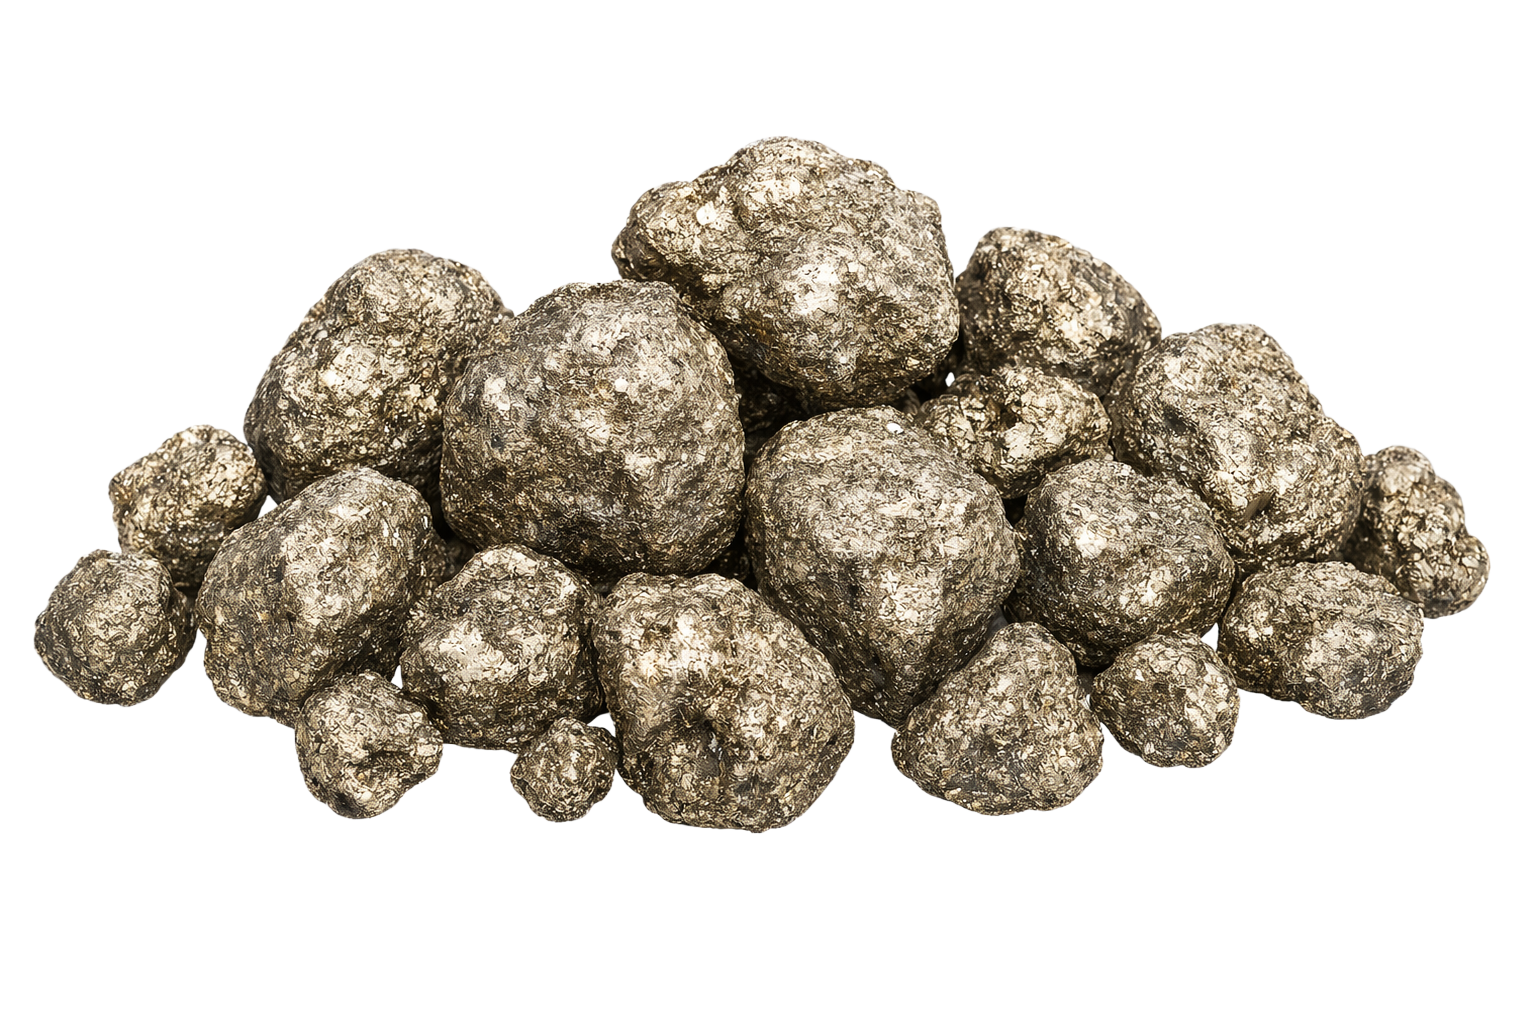
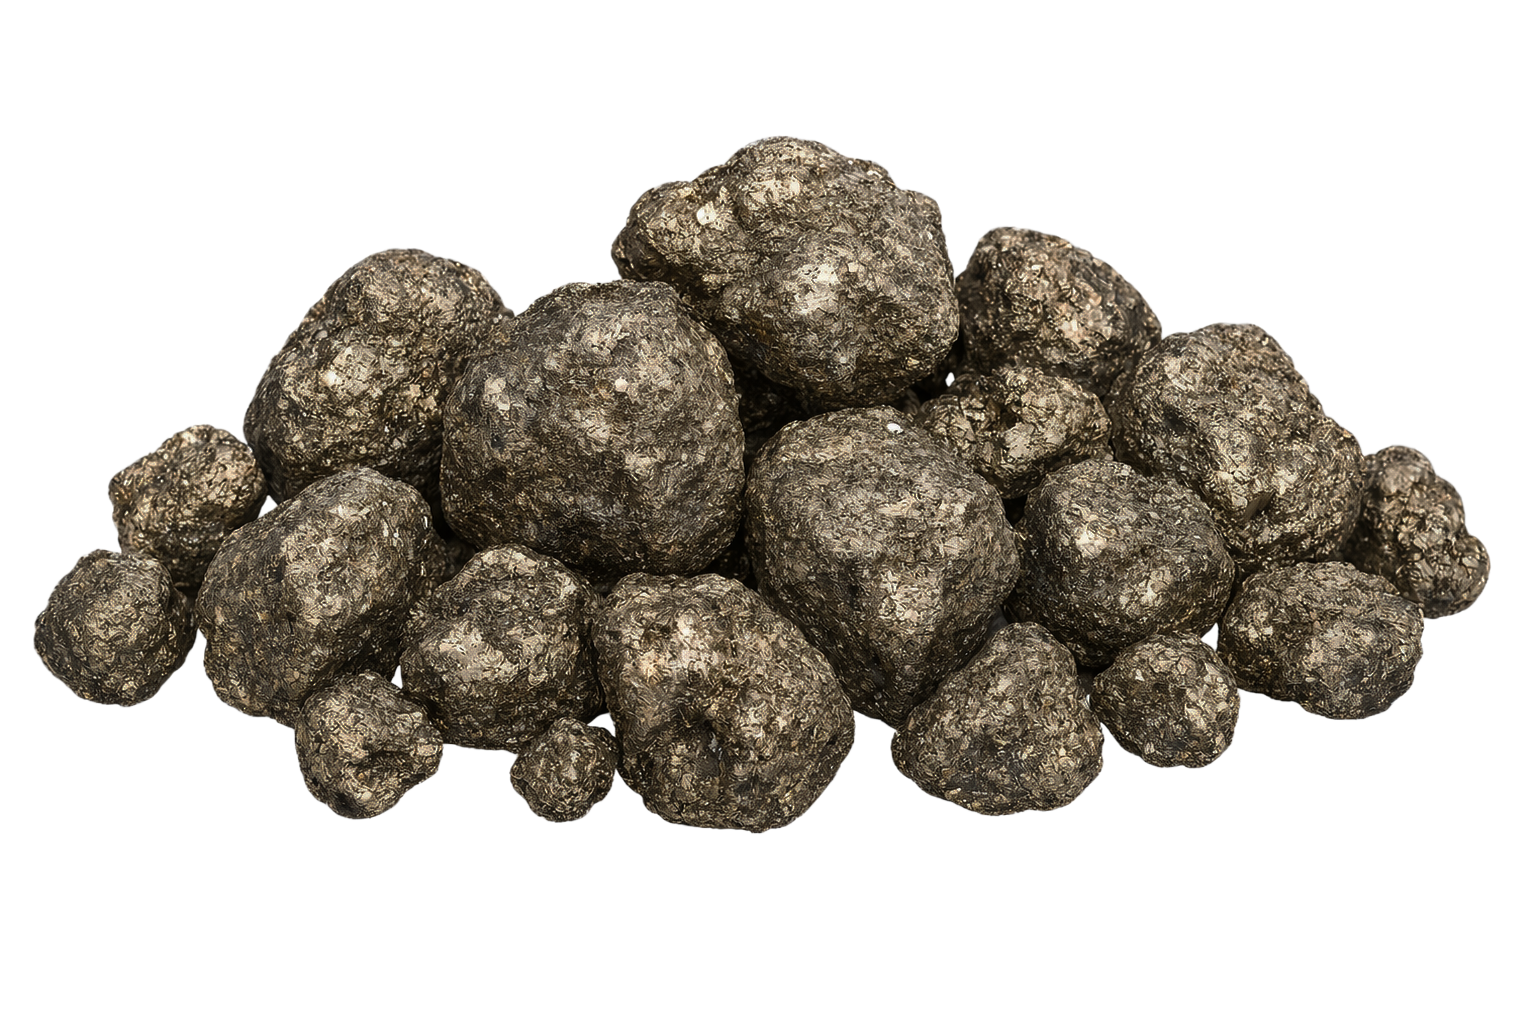
nuovi NPC e Oggetti

diff --git a/compendio.html b/compendio.html
@@ -306,10 +306,10 @@
                     <img src="images/cycolor_img.png" alt="CycoLor" class="npc-img">
                 </div>
                 <h3 class="npc-name">CycoLor<span class="name-line"></span></h3>
-                <p class="npc-bio">[Dati non presenti nel Codex]</p>
+                <p class="npc-bio">Tecnico clandestino che vive tra saldature, firmware e robotica recuperata. Sa del rover per Ghost e Demon Hunting e offre un innesto da Gundam per finirlo.</p>
                 <div class="npc-drop">
                     <span class="drop-label">Drop / Ricompensa</span>
-                    <span class="drop-item">[Dati non presenti nel Codex]</span>
+                    <span class="drop-item">Pezzo Gundam CycoLor + schema Rover Ghost &amp; Demon Hunting.</span>
                 </div>
             </div>
 
@@ -318,10 +318,10 @@
                     <img src="images/fantasma_conte_aliprandi_img.png" alt="Fantasma Conte Aliprandi" class="npc-img">
                 </div>
                 <h3 class="npc-name">Fantasma Conte Aliprandi<span class="name-line"></span></h3>
-                <p class="npc-bio">Fantasma del Conte Aliprandi.</p>
+                <p class="npc-bio">L'eco spettrale dell'antico Conte Aliprandi, intrappolato tra i muri del palazzo di famiglia. La sua presenza segnala una connessione con le radici oscure della stirpe e i segreti sepolti sotto Milano.</p>
                 <div class="npc-drop">
                     <span class="drop-label">Drop / Ricompensa</span>
-                    <span class="drop-item">[Dati non presenti nel Codex]</span>
+                    <span class="drop-item">Nessun drop diretto. Presenza narrativa legata alla storia della famiglia Aliprandi.</span>
                 </div>
             </div>
 
@@ -330,10 +330,34 @@
                     <img src="images/prete_esorcista_img.png" alt="Prete Esorcista" class="npc-img">
                 </div>
                 <h3 class="npc-name">Prete Esorcista<span class="name-line"></span></h3>
-                <p class="npc-bio">[Dati non presenti nel Codex]</p>
+                <p class="npc-bio">Sacerdote specializzato nel contenimento di entità infernali. Opera ai margini della chiesa ufficiale, con riti che sfiorano il proibito. Le sue preghiere non sono preghiere: sono lame spirituali.</p>
                 <div class="npc-drop">
                     <span class="drop-label">Drop / Ricompensa</span>
-                    <span class="drop-item">[Dati non presenti nel Codex]</span>
+                    <span class="drop-item">Nessun drop diretto. Offre supporto rituale e indizi sul portale degli inferi.</span>
+                </div>
+            </div>
+
+            <div class="npc-card neutral">
+                <div class="npc-img-container">
+                    <img src="images/padre_aureliano_verri_img.png" alt="Padre Aureliano Verri" class="npc-img">
+                </div>
+                <h3 class="npc-name">Padre Aureliano Verri<span class="name-line"></span></h3>
+                <p class="npc-bio">Anziano prete di periferia con un passato che non confessa a nessuno. Conosce i meccanismi occulti che tengono in piedi il Male di Milano meglio di qualsiasi esorcista ufficiale. Si muove lentamente, ma con direzione precisa.</p>
+                <div class="npc-drop">
+                    <span class="drop-label">Drop / Ricompensa</span>
+                    <span class="drop-item">Nessun drop diretto. Figura chiave per l'accesso ai passaggi rituali più profondi.</span>
+                </div>
+            </div>
+
+            <div class="npc-card neutral">
+                <div class="npc-img-container">
+                    <img src="images/prostituta_img.png" alt="Prostituta" class="npc-img">
+                </div>
+                <h3 class="npc-name">Prostituta<span class="name-line"></span></h3>
+                <p class="npc-bio">Ex medium di Brera. Leggeva i tarocchi finché un cliente chiamato Bruno le mostrò un'aura troppo pura e maligna per essere interpretata senza pagarne il prezzo. Da allora ha smesso di leggere, ma non di vedere.</p>
+                <div class="npc-drop">
+                    <span class="drop-label">Drop / Ricompensa</span>
+                    <span class="drop-item">Tarocchi Infernali.</span>
                 </div>
             </div>
 
@@ -537,6 +561,18 @@
                 <div class="npc-drop">
                     <span class="drop-label">Drop / Ricompensa</span>
                     <span class="drop-item">Nessun drop diretto.</span>
+                </div>
+            </div>
+
+            <div class="npc-card enemy">
+                <div class="npc-img-container">
+                    <img src="images/suora_nera_img.png" alt="Suora Nera" class="npc-img">
+                </div>
+                <h3 class="npc-name">Suora Nera<span class="name-line"></span></h3>
+                <p class="npc-bio">Figura religiosa corrotta da un'entità che abita il velo tra la fede e il baratro. Danza con movimenti innaturali, come se il corpo fosse guidato da qualcosa che non appartiene a questo mondo. La sua presenza segnala un punto di rottura tra i piani spirituali.</p>
+                <div class="npc-drop">
+                    <span class="drop-label">Drop / Ricompensa</span>
+                    <span class="drop-item">Reliquia spettrale.</span>
                 </div>
             </div>
         </div>

diff --git a/oggetti.html b/oggetti.html
@@ -117,7 +117,7 @@
 
     <header>
         <h1>Oggetti &amp; Armi</h1>
-        <p>Inventario completo di ogni arma, chiave, consumabile, oggetto occulto e risorsa raccoglibile da Dony e il Berserker — 59 voci totali.</p>
+        <p>Inventario completo di ogni arma, chiave, consumabile, oggetto occulto e risorsa raccoglibile da Dony e il Berserker — 62 voci totali.</p>
     </header>
 
     <div class="container">
@@ -464,6 +464,24 @@
                 <div class="npc-img-container" style="height:160px"><img src="images/obj_backpack.png" alt="Zaino Condiviso" class="npc-img"></div>
                 <h3 class="npc-name">Zaino Condiviso<span class="name-line"></span></h3>
                 <p class="npc-bio">Lo zaino del party che raccoglie tutto l'inventario condiviso tra Dony e il Berserker.</p>
+            </div>
+
+            <div class="npc-card neutral">
+                <div class="npc-img-container" style="height:160px"><img src="images/obj_rover.png" alt="Rover Ghost &amp; Demon Hunting" class="npc-img"></div>
+                <h3 class="npc-name">Rover Ghost &amp; Demon Hunting<span class="name-line"></span></h3>
+                <p class="npc-bio">Veicolo da ricognizione costruito con il Pezzo Gundam di CycoLor. Esplora zone inaccessibili, rileva presenze ectoplasmatiche e apre varchi in ambienti ostili. Progetto di CycoLor, realizzato grazie allo schema fornito all'HQ.</p>
+            </div>
+
+            <div class="npc-card neutral">
+                <div class="npc-img-container" style="height:160px"><img src="images/obj_tombino.png" alt="Tombino" class="npc-img"></div>
+                <h3 class="npc-name">Tombino<span class="name-line"></span></h3>
+                <p class="npc-bio">Coperchio di tombino dei sottosuoli di Milano. Passaggio verso i tunnel infestati sotto la città. Elemento scenico interattivo che segna i confini tra il mondo dei vivi e la rete sotterranea del Male.</p>
+            </div>
+
+            <div class="npc-card enemy">
+                <div class="npc-img-container" style="height:160px"><img src="images/obj_copertoni_fiamme.png" alt="Copertoni in fiamme" class="npc-img"></div>
+                <h3 class="npc-name">Copertoni in fiamme<span class="name-line"></span></h3>
+                <p class="npc-bio">Pneumatici brucianti usati come segnale e trappola nelle zone di conflitto. Ardono con un fumo denso e tossico. Elemento scenico dei livelli più degradati di Milano, dove il confine tra rivolta e rito è sottilissimo.</p>
             </div>
         </div>
 
